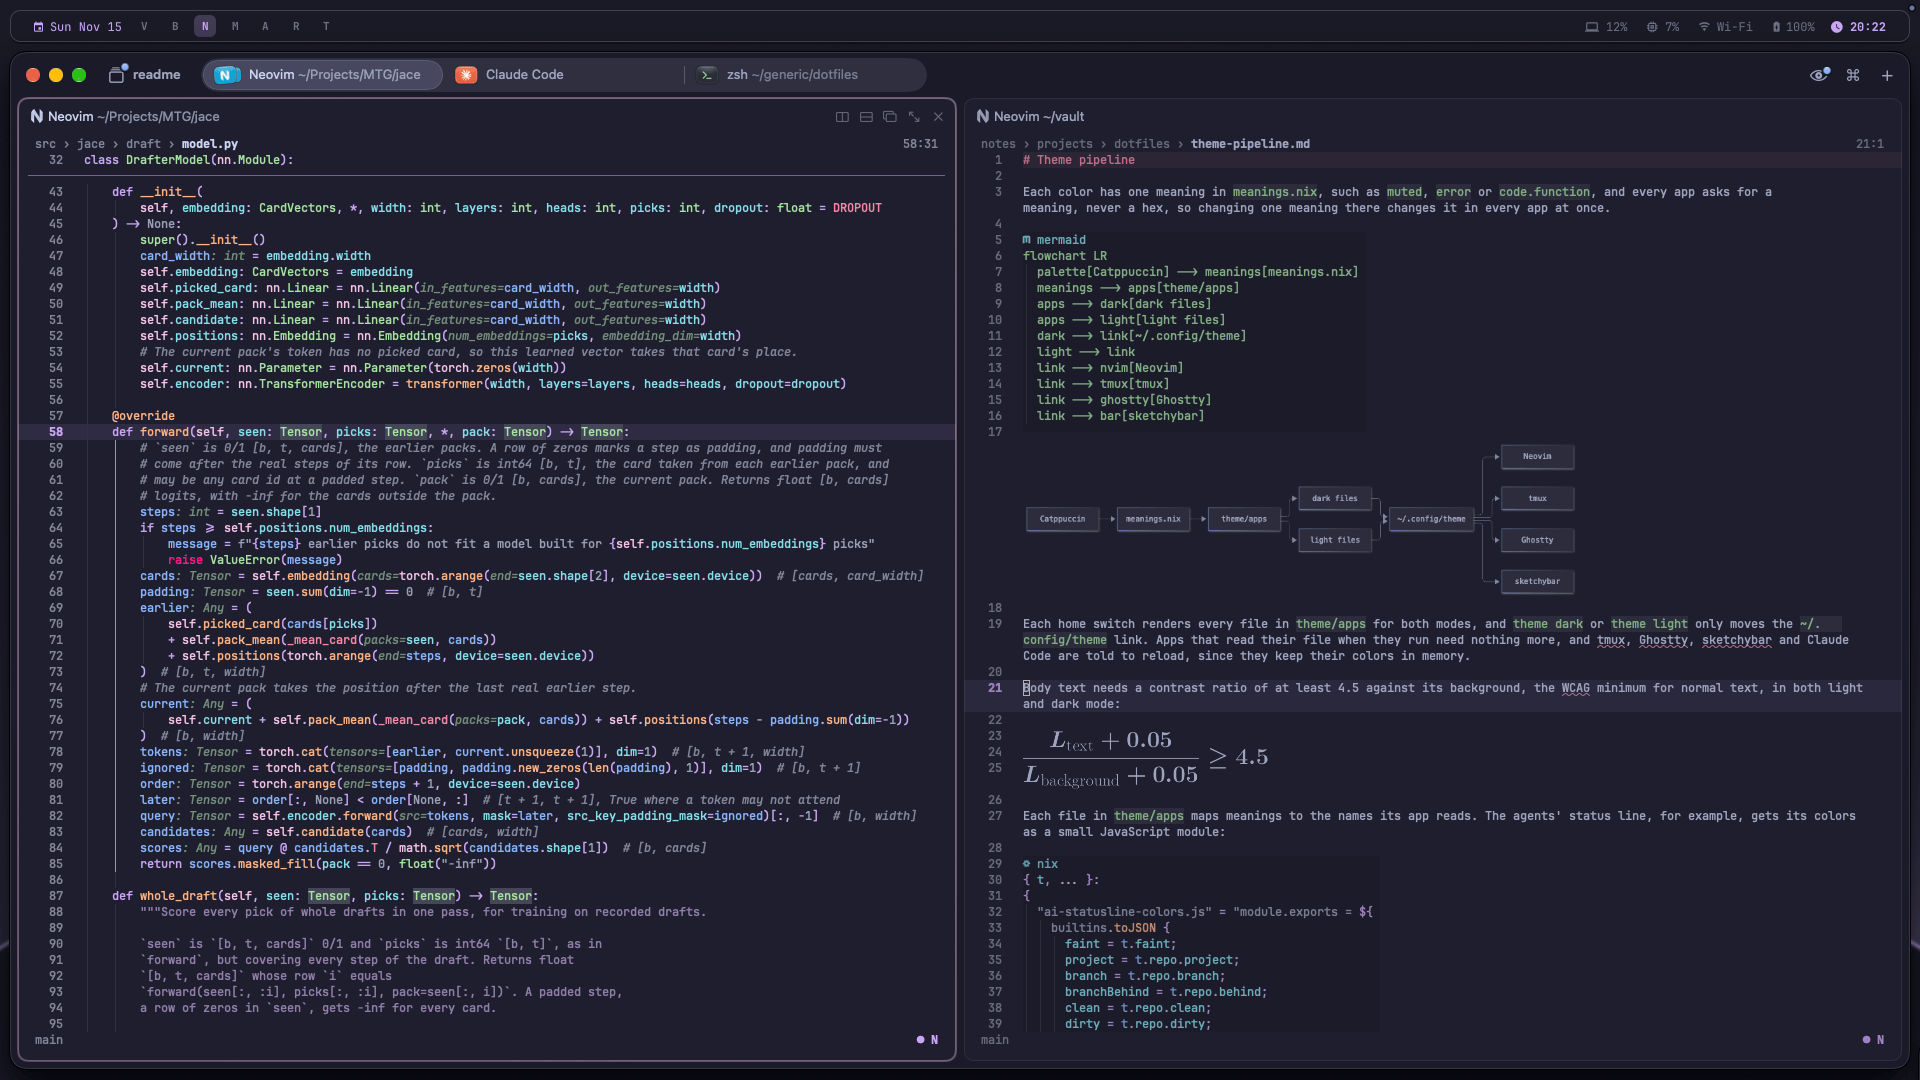
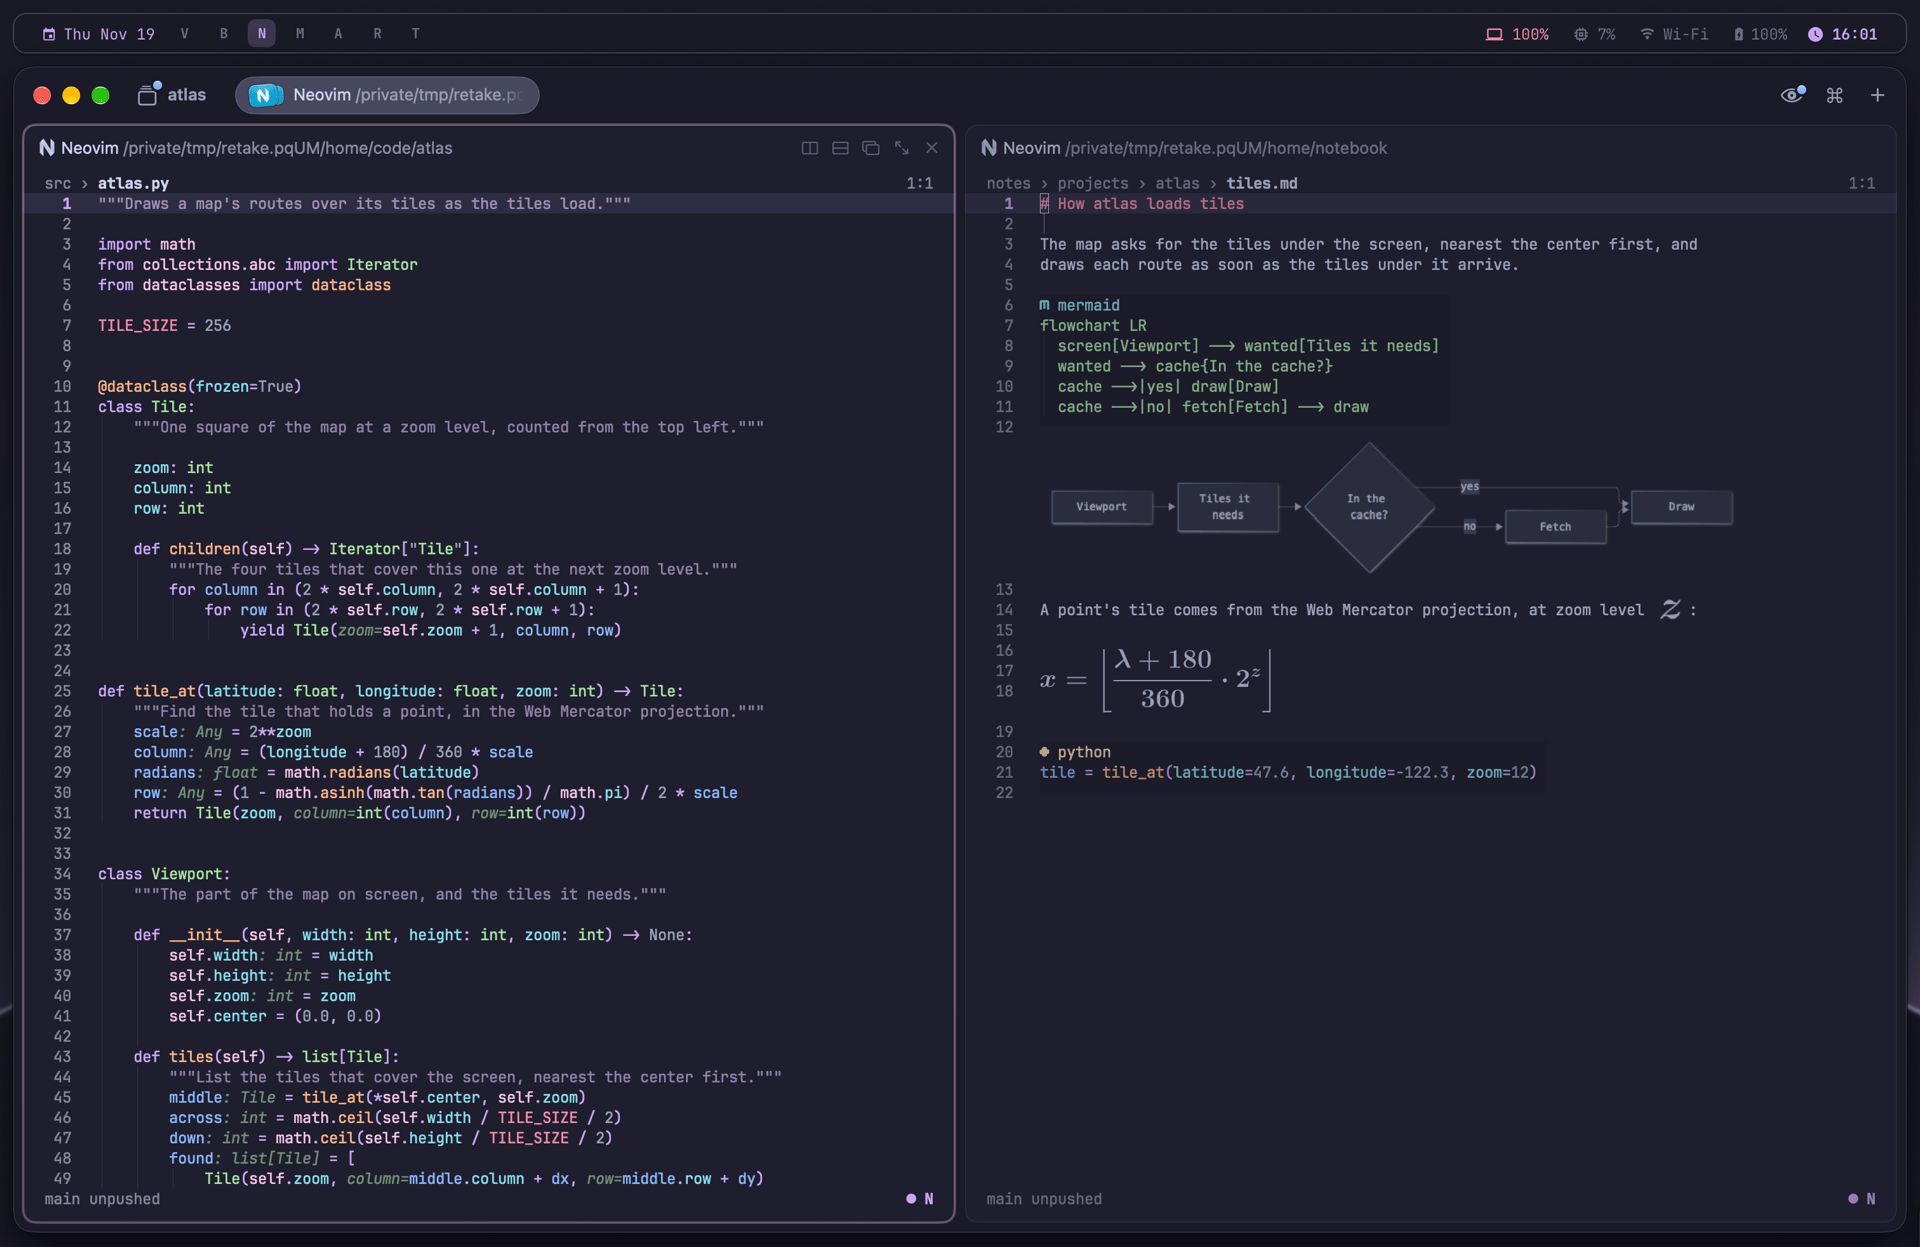
docs: retake the screenshots with demo content
`assets/retake.sh` took the three pictures: the screen with two Neovim
panes, the go popup on Folders, and the Inbox on Needs you. Each now shows
demo repositories, a demo inbox and a demo vault.

diff --git a/README.md b/README.md
@@ -56,9 +56,9 @@ In Rex or tmux, these keys open a `ws` popup:
 | Alt-C        | Theme: switch light and dark, and pick the picture in popups   |
 | Alt-/        | Keys: every key binding                                        |
 
-<img alt="The go popup over Rex on its Folders tab, listing repositories by their latest git activity, with a session tag on those that have a running session and a bookmarked folder last, beside the selected repository's status, top-level folders and files, and recent commits." src="assets/picker.png">
+<img alt="The go popup over Rex on its Folders tab, listing repositories by their latest git activity, with a session tag on the one that has a running session and a bookmarked folder last, beside the selected worktree's branch, top-level folders and files, and recent commits." src="assets/picker.png">
 
-<img alt="The Inbox popup over Rex, with sketchybar's R lit. The Needs you tab lists pull requests and issues, each tagged with why it needs you, beside the selected one's review comment and description. The tabs after it list your pull requests, your issues and your open tasks." src="assets/inbox.png">
+<img alt="The Inbox popup over Rex, with sketchybar's R lit. The Needs you tab lists pull requests and issues, each tagged with why it needs you, beside the selected one's review comment and description. The tabs after it list your pull requests, your issues, what is new in watched repositories, and your open tasks." src="assets/inbox.png">
 
 At the left of sketchybar, after the date, are AeroSpace's four workspaces,
 with the focused one in the accent color:
